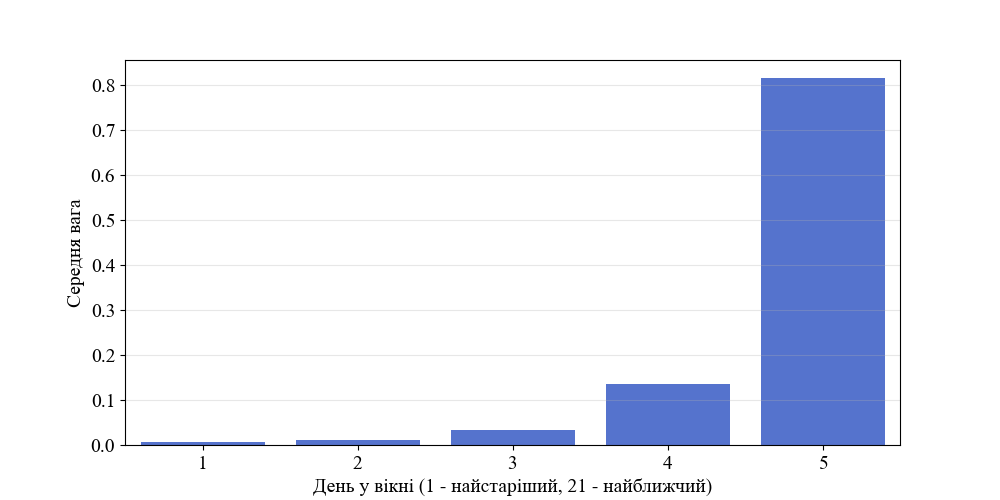
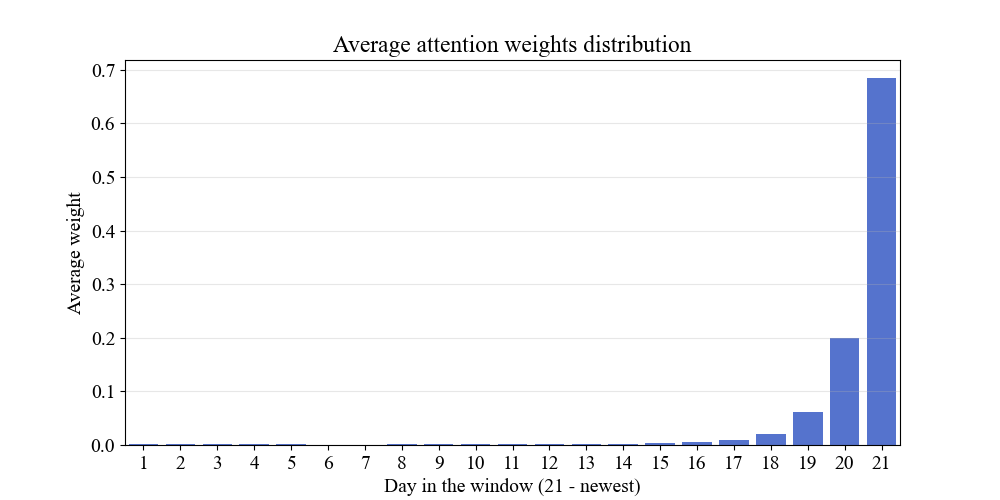
slight code refactor plots refactor

diff --git a/main.py b/main.py
@@ -125,7 +125,6 @@ def main():
         if (epoch + 1) % 10 == 0:
             print(f'Epoch [{epoch+1}/{EPOCHS}], train loss: {average_train_loss}, test loss: {average_test_loss}')
 
-
     print(f'Minimum loss epoch: {np.argmin(test_losses) + 1}')
 
     # VISUALIZING
@@ -293,8 +292,8 @@ def main():
         fig2.text(0.1, 0.98,
                  f'LSTM: MAPE: {lstm_mape:.4f}, R^2: {lstm_r2:.4f}, RMSE: {lstm_rmse:.4f}, MDA: {lstm_acc:.4f}')
         ax2.set_xlabel('Testing day')
-        ax2.set_ylabel('Garman-Klass volatility difference')
-        plt.title('Garman-Klass volatility differences forecasting')
+        ax2.set_ylabel('Garman-Klass volatility')
+        plt.title('Garman-Klass volatility unrolled differences forecasting')
         plt.legend()
         plt.grid()
         plt.show()

diff --git a/src/data/data_preprocessor.py b/src/data/data_preprocessor.py
@@ -7,13 +7,11 @@ from src.models import rolling_garch as rg
 from pathlib import Path
 
 TICKER = '^GSPC'
-TARGET_WINDOW = 5
-
 START = '2015-01-01'
 END = '2026-01-01'
 TIMEFRAME = '1d'
 
-LOOKBACK_WINDOW = 10
+LOOKBACK_WINDOW = 21
 LOAD_EXISTING_DF = True
 USE_GARCH = True
 USE_DIFFERENCES = False
